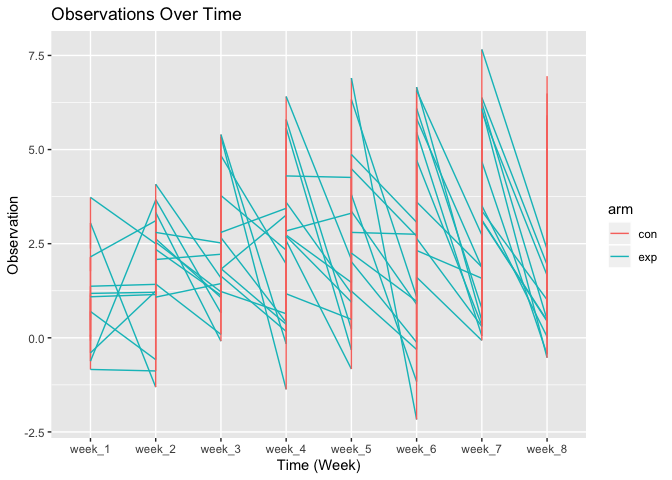
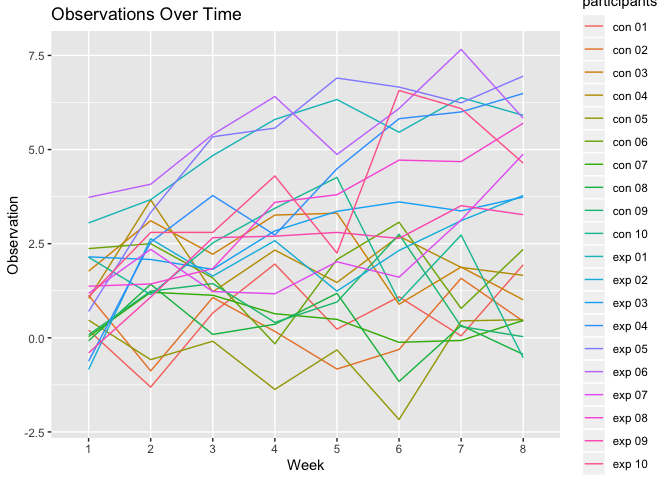
Problem 2: Created spaghetti plot depicting each individual observation by adding additional column for participants combining arm and subjectID.

diff --git a/p8105_hw5_mm5351.md b/p8105_hw5_mm5351.md
@@ -21,8 +21,8 @@ output = map_df(iris_with_missing, iris_fill)
 
 ``` r
 study_df = tibble(
-participants = list.files(path = "./Data", pattern = ".csv",  all.files = TRUE, full.names = TRUE)) %>% 
-  mutate(data = map(participants, read_csv)) %>% 
+participant = list.files(path = "./Data", pattern = ".csv",  all.files = TRUE, full.names = TRUE)) %>% 
+  mutate(data = map(participant, read_csv)) %>% 
   unnest() 
 ```
 
@@ -253,30 +253,31 @@ participants = list.files(path = "./Data", pattern = ".csv",  all.files = TRUE, 
 ``` r
 study_df = 
   study_df %>%
-  separate(col = participants, sep = "_", into = c("arm", "subjectID")) %>% 
+  separate(col = participant, sep = "_", into = c("arm", "subjectID")) %>% 
   mutate(
     arm = str_replace(arm, "./Data/", ""),
     subjectID = str_replace(subjectID, ".csv", "")
-  )
-```
+  ) %>% 
 
-``` r
-study_df %>% 
-  pivot_longer(
+ pivot_longer(
     week_1:week_8,
     names_to = "week",
     values_to = "observation"
-  ) %>% 
+  ) %>%
+  mutate(week = str_replace(week, "week_", "")) %>%
+  unite(participant, arm, subjectID, sep = " ", remove = FALSE) %>% 
+  group_by(week, participant) 
   
-ggplot(aes(x = week, y = observation, group = subjectID, color = arm)) +
+study_df %>%  
+ggplot(aes(x = week, y = observation, color = participant, group = participant)) +
   geom_line() + 
      labs(
     title = "Observations Over Time",
-    x = "Time (Week)",
+    x = "Week",
     y = "Observation")
 ```
 
-![](p8105_hw5_mm5351_files/figure-gfm/unnamed-chunk-3-1.png)<!-- -->
+![](p8105_hw5_mm5351_files/figure-gfm/unnamed-chunk-2-1.png)<!-- -->
 
 **Problem 3**
 
